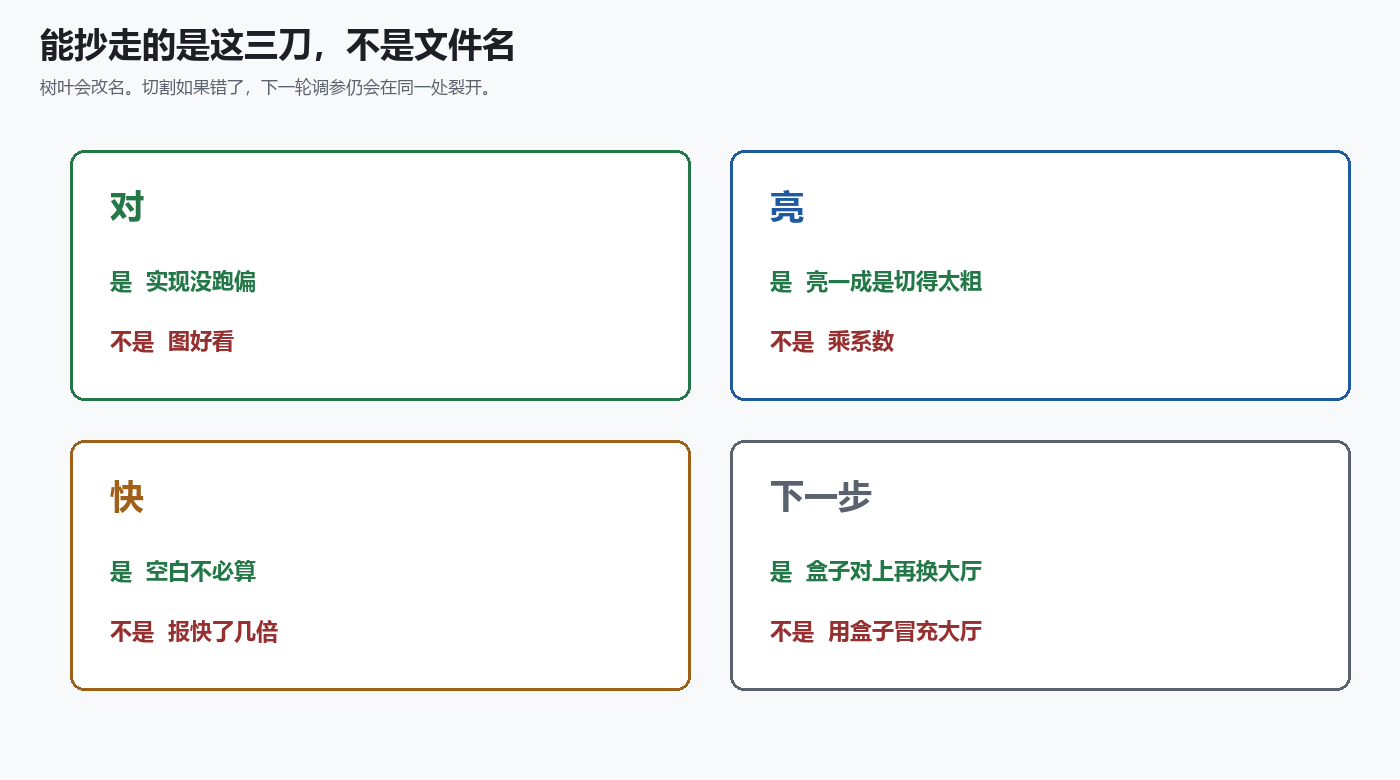
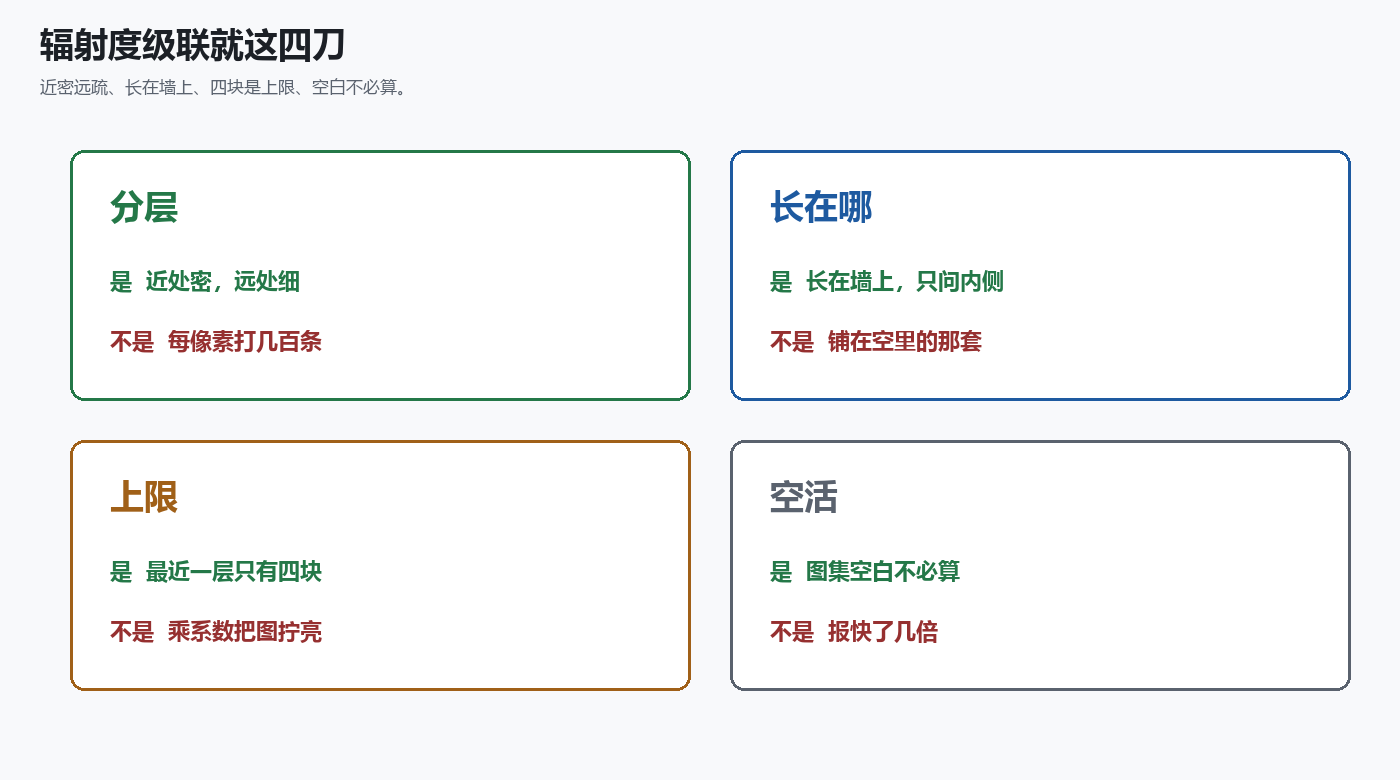
Rewrite Zhihu column around Radiance Cascades, not audit philosophy
Near-dense far-fine, wall-attached vs volume, 4-bin ceiling, skip
atlas padding. Drop Agent/harness as the A-plot.

diff --git a/3d/doc/14_new_rc_quality_perf/zhihu/images/render_figures.py b/3d/doc/14_new_rc_quality_perf/zhihu/images/render_figures.py
@@ -311,14 +311,14 @@ def fig7_thread():
 
 def fig8_takeaway():
     img, d = canvas()
-    t(d, (40, 28), "能抄走的是这三刀，不是文件名", F_TITLE)
-    t(d, (40, 78), "树叶会改名。切割如果错了，下一轮调参仍会在同一处裂开。", F_P, MUTED)
+    t(d, (40, 28), "辐射度级联就这四刀", F_TITLE)
+    t(d, (40, 78), "近密远疏、长在墙上、四块是上限、空白不必算。", F_P, MUTED)
 
     items = [
-        (GREEN, "对", "实现没跑偏", "图好看"),
-        (ACCENT, "亮", "亮一成是切得太粗", "乘系数"),
-        (AMBER, "快", "空白不必算", "报快了几倍"),
-        (MUTED, "下一步", "盒子对上再换大厅", "用盒子冒充大厅"),
+        (GREEN, "分层", "近处密，远处细", "每像素打几百条"),
+        (ACCENT, "长在哪", "长在墙上，只问内侧", "铺在空里的那套"),
+        (AMBER, "上限", "最近一层只有四块", "乘系数把图拧亮"),
+        (MUTED, "空活", "图集空白不必算", "报快了几倍"),
     ]
     for i, (color, k, yes, no) in enumerate(items):
         col, row = i % 2, i // 2

diff --git a/3d/doc/14_new_rc_quality_perf/zhihu/article.md b/3d/doc/14_new_rc_quality_perf/zhihu/article.md
@@ -1,116 +1,96 @@
-# 不要拿「看起来像路径追踪」当全局光照正确
+# 辐射度级联长在墙上：近处密、远处细，最近一层只有四块
 
 **TL;DR**
 
-- 正确不是观感。图好看，不等于实现没跑偏。
-- 比路径追踪亮一成，是最近一层只切了四块。想更细，换档，不要乘系数。
-- 图集里大约三分之一是空白。少做这些空活，图不变。
-- 墙上的和空里的不是同一套。数字必须写明来自哪一条。
-- 换大厅之前，对 / 亮 / 快 必须先立住。
+- 辐射度级联还是探针全局光照，但近处和远处不花同样的钱：近处人多、每人只看几眼；远处人少、把天空切细。
+- 三维默认跑的是长在墙上的那种，只问内侧。铺在空里、四面八方都问的，是另一套算法。
+- 最近一层常常只把半球切成四块。比路径追踪亮一成，多半是小灯撑满了其中一块，不是实现写错。
+- 想更细，把四块换成十六块，验收另做。不要乘一个系数把图拧亮。
+- 墙上的数据打进一张大图，大约三分之一是空白。空白不必算。
 
-给实时全局光照做验收，第一反应通常是三件事：图暗了就说实现写错，图亮了就说终于对了，一对路径追踪还有误差，就乘一个系数。截图好看，就算过关。
+路径追踪沿着光线弹，把渲染方程积出来。它是地面真值，也贵。实时里常见的折中，是在场景里放一些点，每个点朝一组方向问：「那边亮不亮？」再把答案插值到着色点上。这些点叫探针。
 
-这三条都快，也都会在同一处裂开：你分不清自己是实现跑偏了，还是算法本来就只能细到这一档，还是把另一套算法的耗时拿来当了成绩单。
+辐射度级联（Radiance Cascades）还是探针。它和普通探针网格的差别只有一句：
 
-贯穿始终的一句话是：
+**近处和远处不花同样的钱。**
 
-**正确不是观感。**
+近处管墙根那一米，探针排得密，每个只看很少几个方向。远处管房间另一头渗过来的间接光，探针排得疏，每个把天空切得很细。总光线数可以远小于「每个像素打几百条」。
 
-人话就是：先问还在不在跑原来那套算法；亮不亮、快不快，是后面的事。下面按这个顺序讲。
-
----
-
-## 第一反应是错路
-
-别拿截图当验收。截图是给人看的；验收要回答的是：实现有没有跑偏。
-
-![错路是拿观感当正确、乘系数过关；正路是先问实现有没有跑偏](images/06-wrong-path.png)
-
-是：先问实现，再问近似，最后问成本。前一问没过，后一问的好看、更快都不算。
-
-不是：图亮了就算对，也不是截图好看就算过关。
+我们把一套公开的三维做法做成了默认可跑的内核。下面只讲这套算法本身：它在算什么、探针长在哪、为什么会亮一成、质量旋钮在哪、空活长什么样。
 
 ---
 
-## 脉络：三问分开，红了停在本层
+## 近处密，远处细
 
-判断按这条链往下走。上一步如果走了「不是什么」，后面再漂亮也会裂。
-
-![是什么 → 对不对 → 亮不亮 → 快不快 → 再换大厅](images/07-thread.png)
-
-| 步 | 是什么 | 不是什么 |
-|---|---|---|
-| 是什么 | 近处密、远处细的探针 | 每个像素打几百条 |
-| 对 | 实现和参考做法对得上 | 图好看 |
-| 亮 | 天空切成几块 | 乘一个系数把图拧亮 |
-| 快 | 空白角落不必算 | 拿另一套算法的毫秒数当基线 |
-| 下一步 | 盒子对上，再换大厅 | 用盒子冒充已经支持复杂场景 |
-
----
-
-## 树：验收不是一个开关
-
-这不是「开一个正确性开关」。它是从「正确不是观感」长出来的一棵树。红字是「不是什么」。每根枝只回答自己那一问，不替别的枝过关。
-
-![根是正确不是观感；主干是三问分开；四根枝分别回答是什么、对、亮、快；叶子才是换大厅](images/09-tree.png)
-
-根错了——比如拿截图当正确——枝叶写得再漂亮，换场景时仍会在同一处裂开。
-
----
-
-## 是什么：近处密，远处细
-
-路径追踪沿着光线弹，把渲染方程积出来。它是地面真值，也贵：每个像素、每一跳都要采样。
-
-实时里常见的折中，是在场景里放一些点，每个点朝一组方向问：「那边亮不亮？」再把答案插值到着色点上。这些点叫探针。
-
-辐射度级联还是探针，但近处和远处不花同样的钱。想法很像阴影级联：近处管细节，远处管大范围。
+想法很像阴影级联，或者一张图越缩越糊的那几级：近处买空间分辨率，远处买角分辨率。
 
 ![近处探针排得密，每个只看几个方向；远处排得疏，每个把天空切得更细。](images/00-cascades.png)
 
-近处用「人多」换「每人只看几眼」，管墙根那一米：接触阴影、颜色往墙上爬。远处反过来，管房间另一头渗过来的间接光。总光线数可以远小于「每个像素打几百条」。
+近处用「人多」换「每人只看几眼」。接触阴影、颜色往墙上爬，靠这一层。
 
-有一个容易忽略的后果：最近那一层看几个方向，就是这套算法能细到的上限。参考做法里，最近一层常常只把半球切成四块。小灯一旦打进其中一块，这块会把它当成「填满了整整四分之一天空」。图会偏亮。这不是滤波没开，是分得太粗。
+远处反过来。房间另一头一块亮墙渗过来的光，靠这一层把方向切细，才不至于糊成一片。
 
-探针还可以铺在空里，四面八方都问。我们跑的是长在墙上的那种，只问内侧。空里那条是另一套算法。它的耗时和误差，不要拿来指导墙上这条。
+相邻两层要并起来。近的一层已经问过的那段距离，远的一层不再重复问；看得见的部分，按命中距离加权，把更远那一层的亮度接上来。着色的时候，只消费最近那一层——更远的几层已经并进它里面了。
 
----
-
-## 对：实现有没有跑偏
-
-第一问最容易被跳过。图好看了，人就觉得实现也对了。
-
-![先问实现有没有跑偏，再问亮得合不合理，最后问跑不跑得起。](images/02-three-layers.png)
-
-这一问只问一件事：我们是不是还在跑上面那套「近密远疏、最近一层四块」的算法。要对的是探针怎么排、方向怎么切、相邻两层怎么并、这一帧怎么去读上一帧墙上的间接光。
-
-我们用三份互相看不见的计算去对：一份从参考着色器推出来，一份在 CPU 上复算，一份真正跑在 GPU 上。上一份不同意，这一问就失败。CPU 自己跟自己比不算——那只是同一套公式抄了两遍。
-
-过了，只说明你实现的是那套级联，不是随便一种探针。它不说明图像等于路径追踪，也不说明换一张网格还自动成立。
+这套分层有一个硬上限：**最近那一层看几个方向，就是算法能细到什么程度。** 参考做法里，最近一层常常只把半球切成四块。
 
 ---
 
-## 亮：想更细，换一档
+## 探针长在墙上，不是铺在空里
 
-路径追踪放在这里，只当报告，不当通行证。实验室里那只标准盒子、同一台相机，大约比路径追踪亮一成。那一成主要来自最近一层只有四个方向。
+「级联」只说了分层，没说探针放在哪。三维里至少有两种完全不同的摆法。
 
-非要咬到几个百分点，人就会去改上一问的答案，或者乘个系数把图拧亮。系数拧的是观感，不是天空被切成了几块。
+![左：探针长在墙上，只问内侧。右：探针铺在空里，每个点四面八方都问一遍。](images/01-two-paths.png)
 
-参考做法把「排得密」和「看得细」绑在一起。探针格子边长翻一倍，方向大约乘四，单位面积上的探针除四。总成本几乎不变，只是把钱从「人多」换成「眼尖」。
+一种铺在空的体积里，每个点向整球采样，再在三维格子里插值。它更像传统探针体。封闭房间里，空腔中的点经常「看不见」地板上那块被小灯打亮的地方——命中是碰运气。
 
-所以默认档锁在四块上，专门回答上一问：我们是不是还在跑原来那套。想更细，换成十六块，验收另做一份。那不是「提高质量」，是换了一套分法。
+另一种长在墙、地板、天花板上，只沿法线朝里打半球，合并发生在表面自己的二维参数里。亮斑在哪块墙上，那块墙上的探针按构造就能接到。点光源、封闭盒子，这一派更对症。
+
+我们跑的默认路径是后者。仓库里还留着前者。两边都叫辐射度级联，测量结果不能互相当成绩单。后面说的数字，都是墙上这一条。
+
+---
+
+## 四块天空：亮一成从哪来
+
+参考做法里，最近一层的半球往往只有 2×2 个方向。小灯一旦打进其中一块，这块会把它当成「填满了整整四分之一天空」。图会偏亮。
+
+这不是滤波没开。这是离散本身。
 
 ![半球切成 4 块时，一小盏灯能撑满四分之一天空；切成 16 块就只占一小片。](images/03-quality-knobs.png)
 
-更细的那一档，小灯更不容易撑满一块；同时近处探针变稀，墙根的接触阴影会换一种错。两档分开看。不要把细档的图塞回粗档的验收里。
+同一只实验室盒子、同一台相机，墙上这条大约比路径追踪亮一成。那一成主要来自这四个方向，不是移植抄错了公式。
 
-乘个系数、加一个最低亮度、拿调过色的截图当证据——这些都像在调质量。其实是在拆第一问。亮了不是对了。
+路径追踪在这里只当报告：告诉你这套近似细到哪一档。它不当通行证。非要咬到几个百分点，人就会去改公式，或者乘个系数把图拧亮。系数拧的是观感，不是天空被切成了几块。
 
 ---
 
-## 快：空白角落不必算
+## 质量旋钮在「密」和「细」的绑法上
 
-墙上的数据要塞进一张大图，很像光照贴图：不同的墙占不同的矩形。GPU 通常按整张图的宽高开工。没墙的角落，线程照样来，算完发现没活，写个空值回去。
+参考做法把空间密度和角分辨率锁在同一个幂次上。探针格子边长翻一倍，方向大约乘四，单位面积上的探针除四。总成本几乎不变，只是把钱从「人多」换成「眼尖」。
+
+所以：用来对公式的那个盒子上，默认必须锁在四块。那是这套算法的定义。把四块改成十六块，不是「提高质量」，是换了一套分法。验收要另做一份。
+
+更细的那一档，小灯更不容易撑满一块；同时近处探针变稀，墙根的接触阴影会换一种错。两档分开看。不要把十六块的图，塞回四块的验收里。
+
+乘个系数、加一个最低亮度、拿调过色的截图当证据——这些都像在调辐射度级联。其实是在躲开它的上限。
+
+---
+
+## 公式对不对，和图亮不亮，是两件事
+
+要知道「我们是不是还在跑辐射度级联」，问的是：探针怎么从二维图里解出来、方向怎么在半球上排、相邻层怎么按命中距离并、这一帧怎么去读上一帧墙上的间接光。
+
+这些必须能被独立证伪。一份从参考着色器推出来的结果，一份用同一套逻辑在 CPU 上复算，一份真正跑在 GPU 上。上一份不同意，就还不是那套级联。CPU 自己跟自己比不算。
+
+过了，只说明实现的是辐射度级联，不是随便一种探针。它不说明图像等于路径追踪，也不说明换一张有柱子的大厅还自动成立。
+
+图好看了，不等于这一问过了。亮一成，也不等于这一问没过。
+
+---
+
+## 空白角落不必算
+
+墙上的数据要塞进一张大图，很像光照贴图：不同的墙占不同的矩形，每一层再占一条带。GPU 通常按整张图的宽高开工。没墙的角落，线程照样来，算完发现没活，写个空值回去。
 
 默认那个盒子里，大约三分之一的线程落在右下角一整块空白上。形状是矩形，不是「很多探针随机没醒」。
 
@@ -118,70 +98,48 @@
 
 ![墙被打包进一张大图。空白角落不必算，少做三分之一空活，图不变。](images/04-split-dispatch.png)
 
-计时器会抖。用调试器回放同一帧，时间常常抖两三倍。两次测量相除，不能写成「快了四点八倍」。能写进报告的是：少做了多少，图有没有变。
+计时器会抖。回放同一帧，时间常常抖两三倍。两次测量相除，不能写成「快了四点八倍」。能写进报告的是：少做了多少，图有没有变。
 
-没有这一套算法自己的耗时，不许谈优化。空里那条老路径的毫秒数，描述的是另一套求交。还想再快，必须先有新数字。乘个系数让图又快又亮，两件事都没做。
+空里那条老路径的毫秒数，描述的是另一套求交和另一张三维表。不要拿来指导墙上这条。还想再快，必须先有这套算法自己的新数字。
 
 ---
 
-## 叶：盒子对上，再换大厅
+## 先在盒子上把级联跑对，再换大厅
 
 实验室场景通常是几块直角墙。下一步很诱人：换成有柱子、有缝的大厅，让级联长在真三角形上。
 
-代价是两件事一起跳。墙变多，大图变大，开工的线程变多；求交从「和十几块平面算距离」变成「和一堆三角形求交」。盒子上的三问没立住，慢了你分不清是打包浪费、求交变贵，还是验收被悄悄拆了。
+代价是两件事一起跳。墙变多，大图变大，开工的线程变多；求交从「和十几块平面算距离」变成「和一堆三角形求交」。盒子上如果还分不清「公式跑偏了」还是「四块本来就会亮」，慢了你归因不上。
 
-是：先证明实现没跑偏，再把三问分开，然后只把墙切开摆好，最后才接到真网格上。
+![先在实验室盒子上把墙上的级联跑对，再换复杂大厅。](images/05-roadmap.png)
 
-不是：继续调盒子上的亮度。也不是用盒子去贴大厅，出一张好看的图，就叫做「已经支持复杂场景」。
+顺序是：先确认还在跑近密远疏、最近一层四块的那套；质量要更细就换档，不乘系数；空白真的少算了，再去切大厅的墙。
 
-![先在实验室盒子上对上，再换复杂大厅。对、亮、快三问不混用。](images/05-roadmap.png)
-
-比亮度用没调过色的线性图。调过色的截图会把亮部和暗部一起压扁，误差看起来像「差不多」。耗时先写一个预算，超过了再谈优化。
-
----
-
-## 为什么要这么验收
-
-这篇不是为了再发一节图形学课。实验室盒子、三问、空白角落，是一件更长的事里的现场：让一套 Agent 工具在跨很多轮的任务里，别把目标改小，也别自己宣布做完。
-
-要验的不是「模型会不会写 shader」。要验的是三件事，和上面的三问是同一刀。
-
-**完整目标不能改小。** 题目是：怎么知道新算法正确、怎么控制质量、怎么优化性能。中途很容易改成「先把图画亮」「先写一篇像那么回事的专栏」。那叫改题，不叫推进。
-
-**完成听现场，不听口头。** 实现对得上、亮一成有原因、空白真的少算了——这些要有数字、有对照。模型说「已经过关了」，不算完。这和「截图好看就算对」是同一句错话。
-
-**卡住要反复出现，才允许认输。** 一轮量不准、一张图术语太多，不是停工理由。同一块石头连续绊几次，才许标成卡住。
-
-![调全局光照和带 Agent 跑长任务，验收是同一刀：听现场，不听口头](images/10-same-cut.png)
-
-是：用图形学现场，去压 Agent 会不会改题、会不会提前收工。
-
-不是：把专栏写成一篇「我们的 Agent 框架介绍」。主线仍然是全局光照的三问。工具好不好使，看它在这些问题上有没有改题。
+用盒子去贴大厅，可以出一张好看的图。那不叫辐射度级联已经支持复杂场景。那是另一套假几何。
 
 ---
 
 ## 收获和结论
 
-能抄走的是切割，不是文件名。
+能抄走的是这套算法的切法，不是某个仓库里的文件名。
 
-![对不是图好看；亮一成换档不乘系数；空白不必算；盒子对上再换大厅](images/08-takeaway.png)
+![近密远疏；长在墙上；四块是上限；空白不必算](images/08-takeaway.png)
 
 **收获**
 
-1. **正确不是观感。** 实现没跑偏，是和参考做法对得上。不是图好看。
-2. **亮一成不是 bug。** 最近一层只切四块，小灯会撑满其中一块。不是实现写错。
-3. **想更细，换档。** 「排得密」和「看得细」绑在一起。不是乘一个系数。
-4. **空白不必算。** 少做三分之一空活，图不变。不是报「快了几倍」。
-5. **墙上的和空里的不是同一套。** 数字必须写明来自哪一条。
-6. **换大厅之前，三问先立住。** 对、亮、快不混用。不是用盒子冒充大厅。
-7. **完成听现场，不听口头。** 调光照和带 Agent 跑长任务是同一刀。不是模型说做完了就算完，也不是截图好看就算对。
+1. **辐射度级联是近密远疏的探针。** 近处人多、看得粗；远处人少、看得细。不是每个像素打几百条。
+2. **默认跑在墙上。** 只问内侧。不是铺在空里的那套，两边的数字不能混。
+3. **最近一层四块，是定义，也是上限。** 小灯会撑满其中一块，所以会亮一成。不是移植写错。
+4. **想更细，换档。** 「密」和「细」绑在同一个幂次上。不是乘系数。
+5. **公式对不对，和图亮不亮，分开问。** 对得上参考做法，才是辐射度级联。不是截图好看。
+6. **空白不必算。** 图集里大约三分之一没墙。不是报「快了几倍」。
+7. **大厅是下一件事，不是现在这件事。** 盒子上的分层、四块、空白还没立住，换网格只会把三种问题搅在一起。
 
 **结论**
 
-给实时全局光照做验收，不是把它调到「看起来像路径追踪」，而是先有一本对得上的账：实现有没有跑偏、近似细到哪一档、空活长什么样。顺手也在验另一件事：跨很多轮的任务里，完整目标能不能保住、完成能不能核对现场。能抄走的是这套切割，不是某个仓库里的文件名。
+三维辐射度级联不是「一种看起来像路径追踪的全局光照」。它是探针 GI 里一种具体的花钱方式：近处买密度，远处买方向，最近一层往往只有四块天空。实现要对上的是这套分层；质量要动的是切几块；性能要砍的是图集上没墙的角落。能抄走的是这三刀，不是把图调亮。
 
-**PS.** 只带走一句的话：正确不是观感。图好看了，不等于还在跑原来那套算法。模型说做完了，也不等于做完了。
+**PS.** 只带走一句的话：最近一层只有四块。亮一成，先怀疑这件事，再怀疑实现。
 
-**PPS.** 这和「把图调得更像路径追踪」不是一回事，也和「把模型训得更听话」不是一回事。路径追踪是第二问的报告。提示词只能提醒别改题；现场对不上，就不算完。
+**PPS.** 这和「探针体 / 动态漫反射那一套铺在空里的网格」不是一回事。都叫级联，探针长在哪、往哪边问，完全不同。
 
-**PPPS.** 盒子、档位、线程数都会过时。如果你在自己的系统里拿截图当正确、拿增益当质量、拿另一套算法的毫秒数当基线——或者让 Agent 把长任务改成短任务、自己宣布收工——换场景时，仍会在同一处裂开。那才是这篇要拦的事。
+**PPPS.** 盒子、档位、线程数都会过时。如果你把自己的辐射度级联拿去对路径追踪拧系数，或者拿空里那套的毫秒数指导墙上这套——换场景时，仍会在同一处裂开。

diff --git a/3d/doc/14_new_rc_quality_perf/zhihu/PUBLISH.md b/3d/doc/14_new_rc_quality_perf/zhihu/PUBLISH.md
@@ -4,29 +4,25 @@
 
 ## 标题
 
-不要拿「看起来像路径追踪」当全局光照正确
+辐射度级联长在墙上：近处密、远处细，最近一层只有四块
 
 ## 导语
 
-正确不是观感。亮一成是切得太粗，换档不要乘系数。图集三分之一是空白，不必算。
+三维辐射度级联是近密远疏的探针，默认长在墙上。最近一层只有四块天空，亮一成先怀疑这件事。空白图集不必算。
 
 ## 配图上传顺序
 
-1. `images/06-wrong-path.png` — 错路：对着路径追踪调到截图好看
-2. `images/07-thread.png` — 脉络：是什么 → 对 → 亮 → 快 → 换大厅
-3. `images/09-tree.png` — 验收是一棵树，不是一个开关
-4. `images/00-cascades.png` — 近处排得密，远处看得细
-5. `images/02-three-layers.png` — 对 / 亮 / 快 三问
-6. `images/03-quality-knobs.png` — 切成 4 块 vs 16 块
-7. `images/04-split-dispatch.png` — 空白角落不必算
-8. `images/05-roadmap.png` — 先盒子对上，再换大厅
-9. `images/10-same-cut.png` — 同一刀：完成听现场，不听口头
-10. `images/08-takeaway.png` — 收获：是什么 / 不是什么
+1. `images/00-cascades.png` — 近处排得密，远处看得细
+2. `images/01-two-paths.png` — 长在墙上 vs 铺在空里
+3. `images/03-quality-knobs.png` — 切成 4 块 vs 16 块
+4. `images/04-split-dispatch.png` — 空白角落不必算
+5. `images/05-roadmap.png` — 先盒子上把级联跑对，再换大厅
+6. `images/08-takeaway.png` — 收获
 
-`01-two-paths.png` 仍在目录里，正文不用。
+正文不再用：错路图、脉络图、验收树、Agent 对照图。主线是辐射度级联，不是验收哲学。
 
 正文里的本地图片路径粘贴后不会自动带上文件；在对应位置插入刚上传的图。
 
 ## 标签建议
 
-图形学、全局光照、Radiance Cascades、实时渲染、路径追踪
+图形学、全局光照、Radiance Cascades、实时渲染、探针
